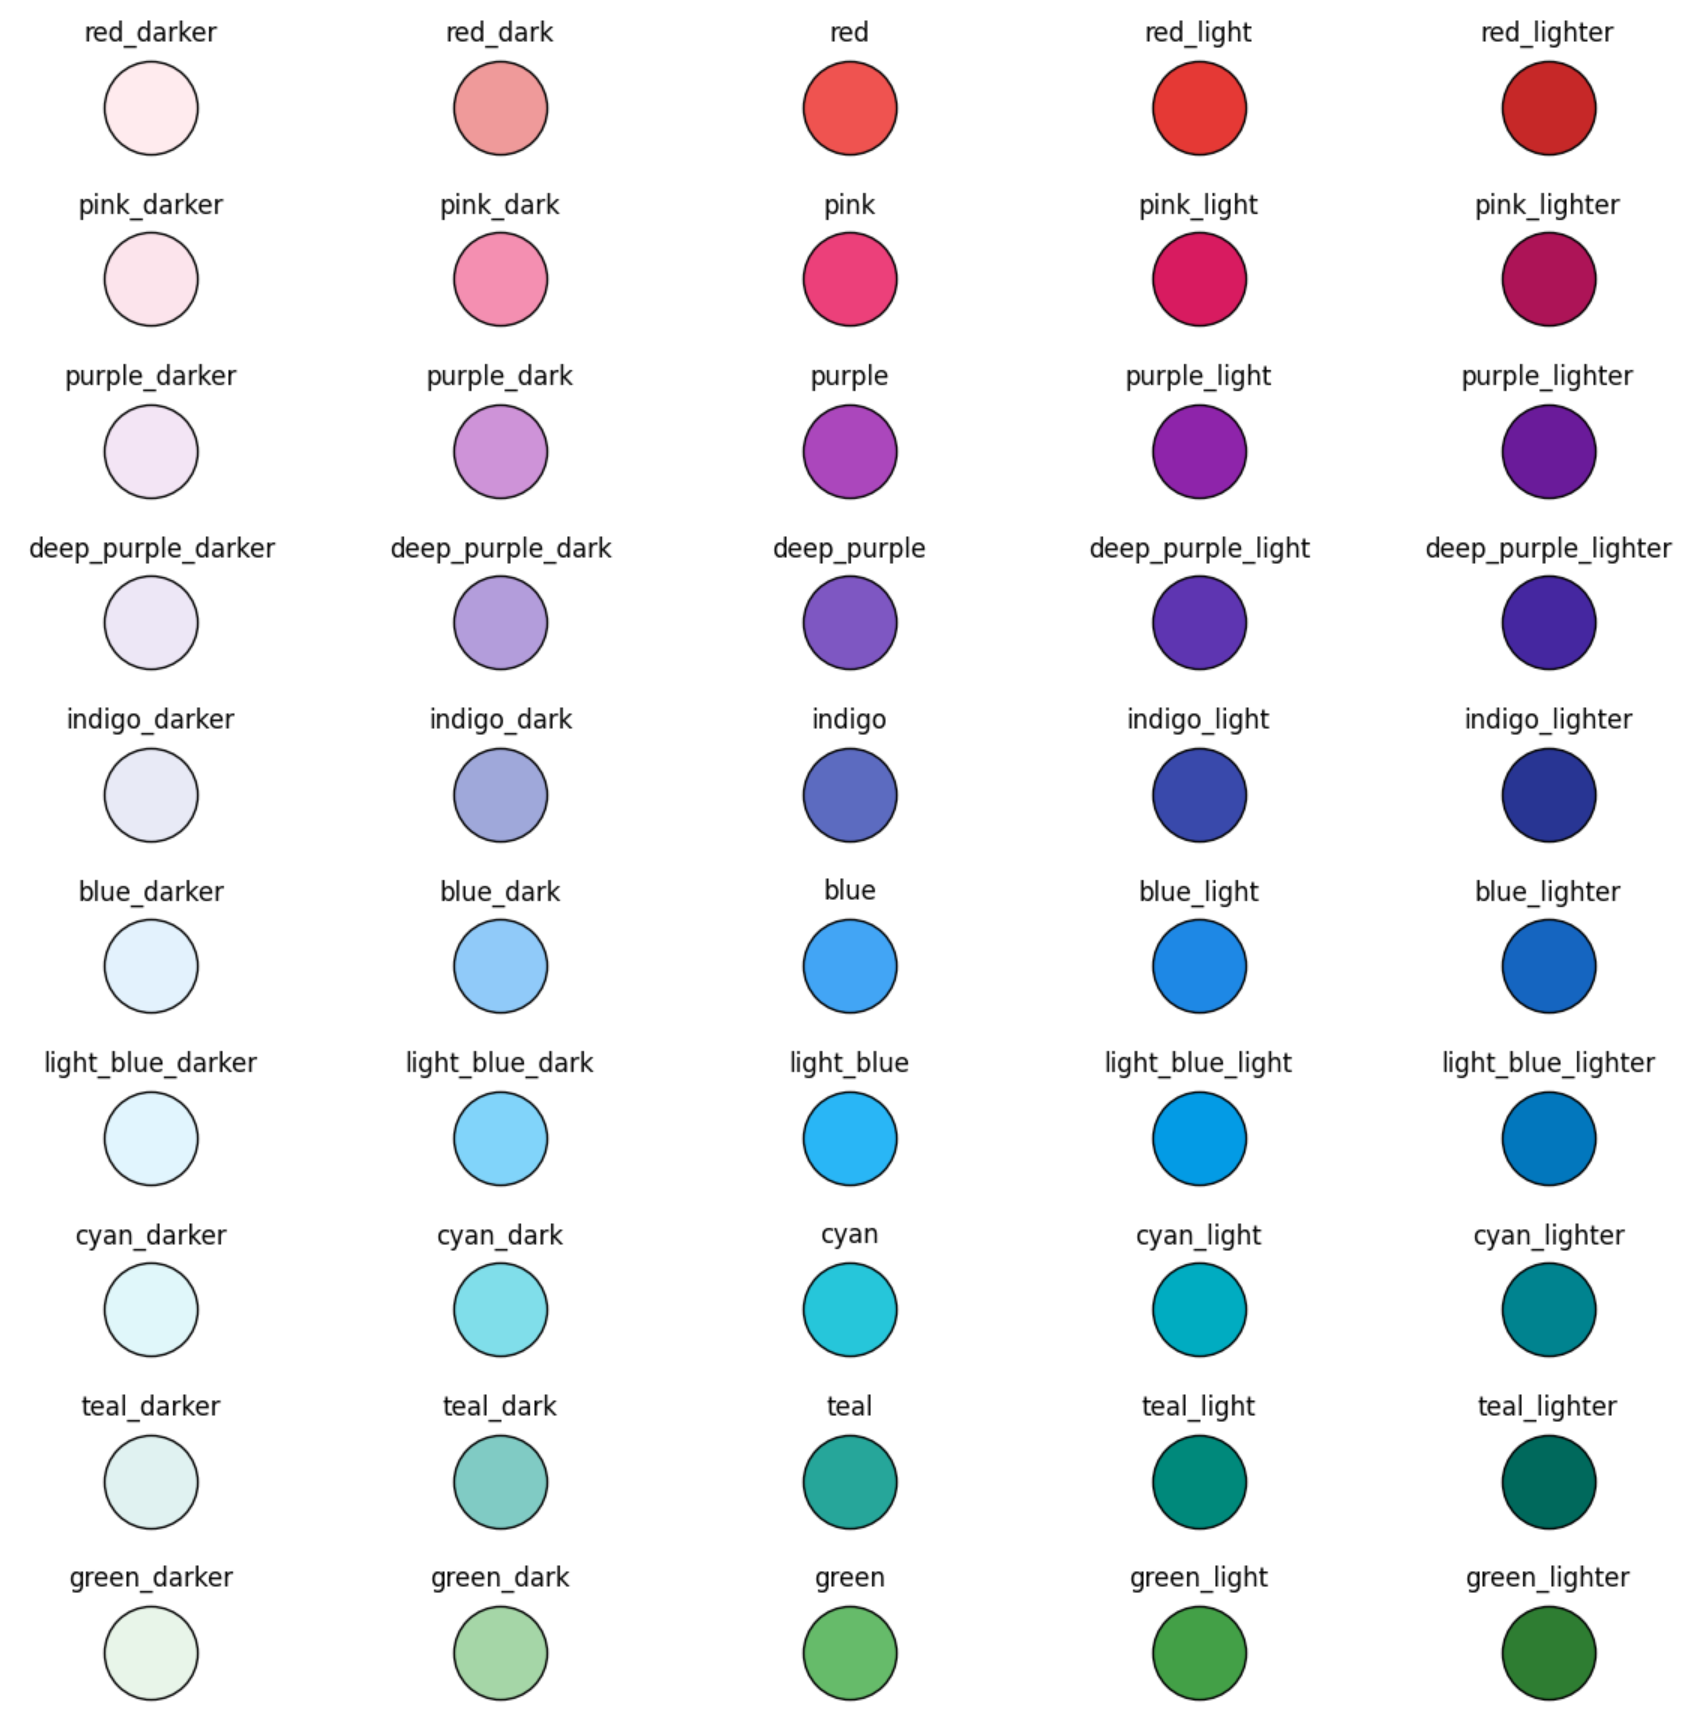
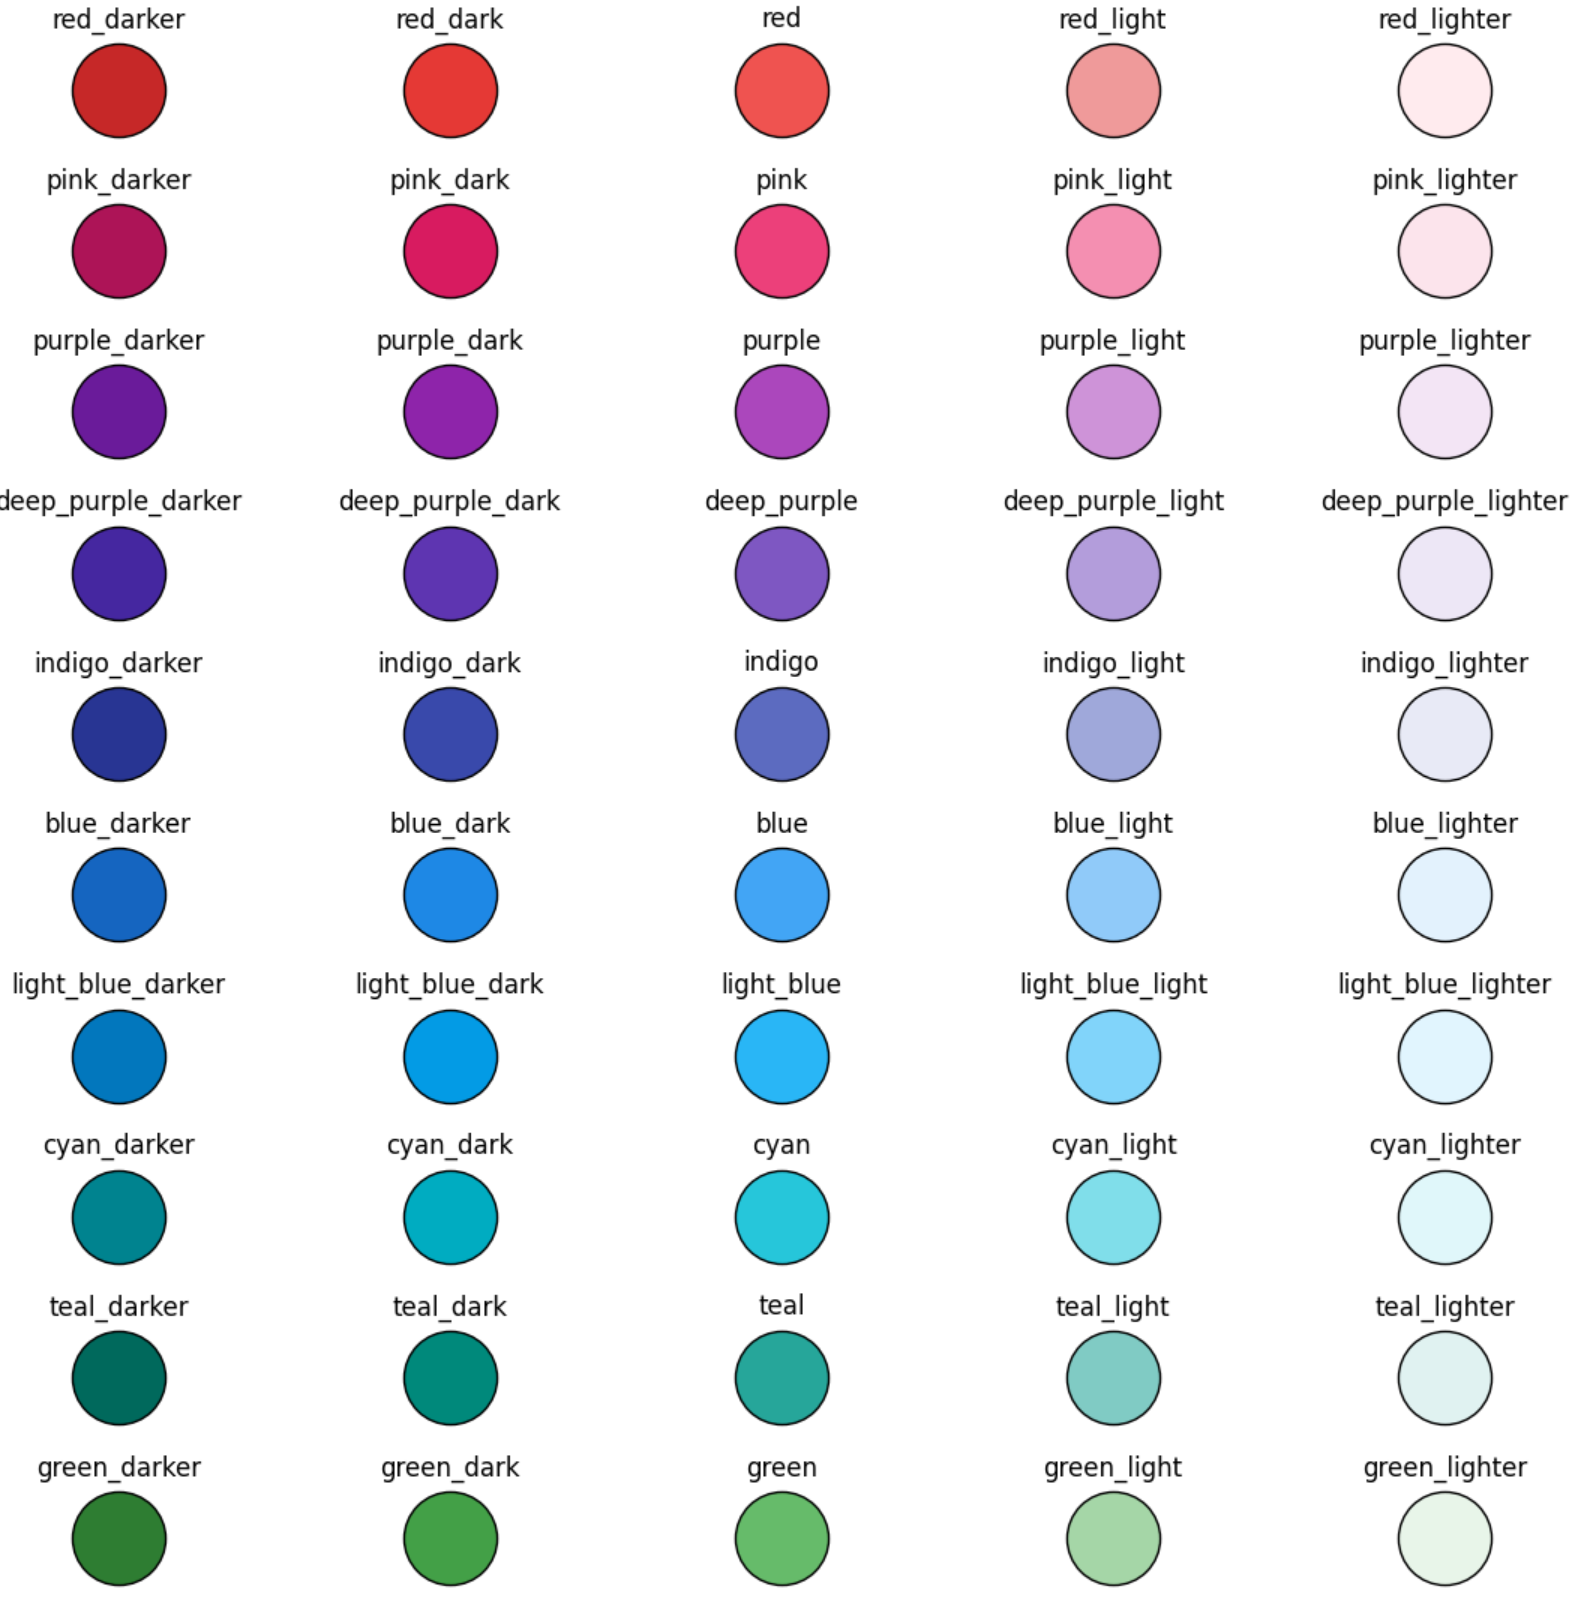
bump

diff --git a/myterial/codes.py b/myterial/codes.py
@@ -1,118 +1,118 @@
-red_darker            = "#FFEBEE"                 
-red_dark              = "#EF9A9A"               
-red                   = "#EF5350"           
-red_light             = "#E53935"                
-red_lighter           = "#C62828"                  
+red_lighter         = "#FFEBEE"                    
+red_light           = "#EF9A9A"                  
+red                 = "#EF5350"             
+red_dark            = "#E53935"                 
+red_darker          = "#C62828"                   
 
-pink_darker           = "#FCE4EC"                  
-pink_dark             = "#F48FB1"                
-pink                  = "#EC407A"           
-pink_light            = "#D81B60"                 
-pink_lighter          = "#AD1457"                   
+pink_lighter        = "#FCE4EC"                     
+pink_light          = "#F48FB1"                   
+pink                = "#EC407A"             
+pink_dark           = "#D81B60"                  
+pink_darker         = "#AD1457"                    
 
-purple_darker         = "#F3E5F5"                    
-purple_dark           = "#CE93D8"                  
-purple                = "#AB47BC"             
-purple_light          = "#8E24AA"                   
-purple_lighter        = "#6A1B9A"                     
+purple_lighter      = "#F3E5F5"                       
+purple_light        = "#CE93D8"                     
+purple              = "#AB47BC"               
+purple_dark         = "#8E24AA"                    
+purple_darker       = "#6A1B9A"                      
 
-deep_purple_darker    = "#EDE7F6"                         
-deep_purple_dark      = "#B39DDB"                       
-deep_purple           = "#7E57C2"                  
-deep_purple_light     = "#5E35B1"                        
-deep_purple_lighter   = "#4527A0"                          
+deep_purple_lighter = "#EDE7F6"                            
+deep_purple_light   = "#B39DDB"                          
+deep_purple         = "#7E57C2"                    
+deep_purple_dark    = "#5E35B1"                         
+deep_purple_darker  = "#4527A0"                           
 
-indigo_darker         = "#E8EAF6"                    
-indigo_dark           = "#9FA8DA"                  
-indigo                = "#5C6BC0"             
-indigo_light          = "#3949AB"                   
-indigo_lighter        = "#283593"                     
+indigo_lighter      = "#E8EAF6"                       
+indigo_light        = "#9FA8DA"                     
+indigo              = "#5C6BC0"               
+indigo_dark         = "#3949AB"                    
+indigo_darker       = "#283593"                      
 
-blue_darker           = "#E3F2FD"                  
-blue_dark             = "#90CAF9"                
-blue                  = "#42A5F5"           
-blue_light            = "#1E88E5"                 
-blue_lighter          = "#1565C0"                   
+blue_lighter        = "#E3F2FD"                     
+blue_light          = "#90CAF9"                   
+blue                = "#42A5F5"             
+blue_dark           = "#1E88E5"                  
+blue_darker         = "#1565C0"                    
 
-light_blue_darker     = "#E1F5FE"                        
-light_blue_dark       = "#81D4FA"                      
-light_blue            = "#29B6F6"                  
-light_blue_light      = "#039BE5"                       
-light_blue_lighter    = "#0277BD"                         
+light_blue_lighter  = "#E1F5FE"                           
+light_blue_light    = "#81D4FA"                         
+light_blue          = "#29B6F6"                    
+light_blue_dark     = "#039BE5"                        
+light_blue_darker   = "#0277BD"                          
 
-cyan_darker           = "#E0F7FA"                  
-cyan_dark             = "#80DEEA"                
-cyan                  = "#26C6DA"           
-cyan_light            = "#00ACC1"                 
-cyan_lighter          = "#00838F"                   
+cyan_lighter        = "#E0F7FA"                     
+cyan_light          = "#80DEEA"                   
+cyan                = "#26C6DA"             
+cyan_dark           = "#00ACC1"                  
+cyan_darker         = "#00838F"                    
 
-teal_darker           = "#E0F2F1"                  
-teal_dark             = "#80CBC4"                
-teal                  = "#26A69A"           
-teal_light            = "#00897B"                 
-teal_lighter          = "#00695C"                   
+teal_lighter        = "#E0F2F1"                     
+teal_light          = "#80CBC4"                   
+teal                = "#26A69A"             
+teal_dark           = "#00897B"                  
+teal_darker         = "#00695C"                    
 
-green_darker          = "#E8F5E9"                   
-green_dark            = "#A5D6A7"                 
-green                 = "#66BB6A"
-green_light           = "#43A047"                  
-green_lighter         = "#2E7D32"                    
+green_lighter       = "#E8F5E9"                      
+green_light         = "#A5D6A7"                    
+green               = "#66BB6A"  
+green_dark          = "#43A047"                   
+green_darker        = "#2E7D32"                     
 
-light_green_darker    = "#F1F8E9"                         
-light_green_dark      = "#C5E1A5"                       
-light_green           = "#9CCC65"                  
-light_green_light     = "#7CB342"                        
-light_green_lighter   = "#558B2F"                          
+light_green_lighter = "#F1F8E9"                            
+light_green_light   = "#C5E1A5"                          
+light_green         = "#9CCC65"                    
+light_green_dark    = "#7CB342"                         
+light_green_darker  = "#558B2F"                           
 
-lime_darker           = "#F9FBE7"                  
-lime_dark             = "#E6EE9C"                
-lime                  = "#D4E157"           
-lime_light            = "#C0CA33"                 
-lime_lighter          = "#9E9D24"                   
+lime_lighter        = "#F9FBE7"                     
+lime_light          = "#E6EE9C"                   
+lime                = "#D4E157"             
+lime_dark           = "#C0CA33"                  
+lime_darker         = "#9E9D24"                    
 
-yellow_darker         = "#FFFDE7"                    
-yellow_dark           = "#FFF59D"                  
-yellow                = "#FFEE58"             
-yellow_light          = "#FDD835"                   
-yellow_lighter        = "#F9A825"                     
+yellow_lighter      = "#FFFDE7"                       
+yellow_light        = "#FFF59D"                     
+yellow              = "#FFEE58"               
+yellow_dark         = "#FDD835"                    
+yellow_darker       = "#F9A825"                      
 
-amber_darker          = "#FFF8E1"                   
-amber_dark            = "#FFE082"                 
-amber                 = "#FFCA28"
-amber_light           = "#FFB300"                  
-amber_lighter         = "#FF8F00"                    
+amber_lighter       = "#FFF8E1"                      
+amber_light         = "#FFE082"                    
+amber               = "#FFCA28"  
+amber_dark          = "#FFB300"                   
+amber_darker        = "#FF8F00"                     
 
-orange_darker         = "#FFF3E0"                    
-orange_dark           = "#FFCC80"                  
-orange                = "#FFA726"             
-orange_light          = "#FB8C00"                   
-orange_lighter        = "#EF6C00"                     
+orange_lighter      = "#FFF3E0"                       
+orange_light        = "#FFCC80"                     
+orange              = "#FFA726"               
+orange_dark         = "#FB8C00"                    
+orange_darker       = "#EF6C00"                      
 
-salmon_darker         = "#FBE9E7"                         
-salmon_dark           = "#FFAB91"                       
-salmon                = "#FF7043"                  
-salmon_light          = "#F4511E"                        
-salmon_lighter        = "#D84315"                          
+salmon_lighter      = "#FBE9E7"                            
+salmon_light        = "#FFAB91"                          
+salmon              = "#FF7043"                    
+salmon_dark         = "#F4511E"                         
+salmon_darker       = "#D84315"                           
 
-brown_darker          = "#EFEBE9"                   
-brown_dark            = "#BCAAA4"                 
-brown                 = "#8D6E63"
-brown_light           = "#6D4C41"                  
-brown_lighter         = "#4E342E"                    
+brown_lighter       = "#EFEBE9"                      
+brown_light         = "#BCAAA4"                    
+brown               = "#8D6E63"  
+brown_dark          = "#6D4C41"                   
+brown_darker        = "#4E342E"                     
 
-grey_darker           = "#FAFAFA"                  
-grey_dark             = "#EEEEEE"                
-grey                  = "#BDBDBD"           
-grey_light            = "#757575"                 
-grey_lighter          = "#424242"                   
+grey_lighter        = "#FAFAFA"                     
+grey_light          = "#EEEEEE"                   
+grey                = "#BDBDBD"             
+grey_dark           = "#757575"                  
+grey_darker         = "#424242"                    
 
-blue_grey_darker     = "#ECEFF1"                        
-blue_grey_dark       = "#B0BEC5"                      
-blue_grey             = "#78909C"                  
-blue_grey_light      = "#546E7A"                       
-blue_grey_lighter    = "#37474F"                         
+blue_grey_lighter   = "#ECEFF1"                          
+blue_grey_light     = "#B0BEC5"                        
+blue_grey           = "#78909C"                    
+blue_grey_dark      = "#546E7A"                       
+blue_grey_darker    = "#37474F"                         
 
 
-black                 = "#000000"
-white                 = "#FFFFFF"
+black               = "#000000"  
+white               = "#FFFFFF"  
 
